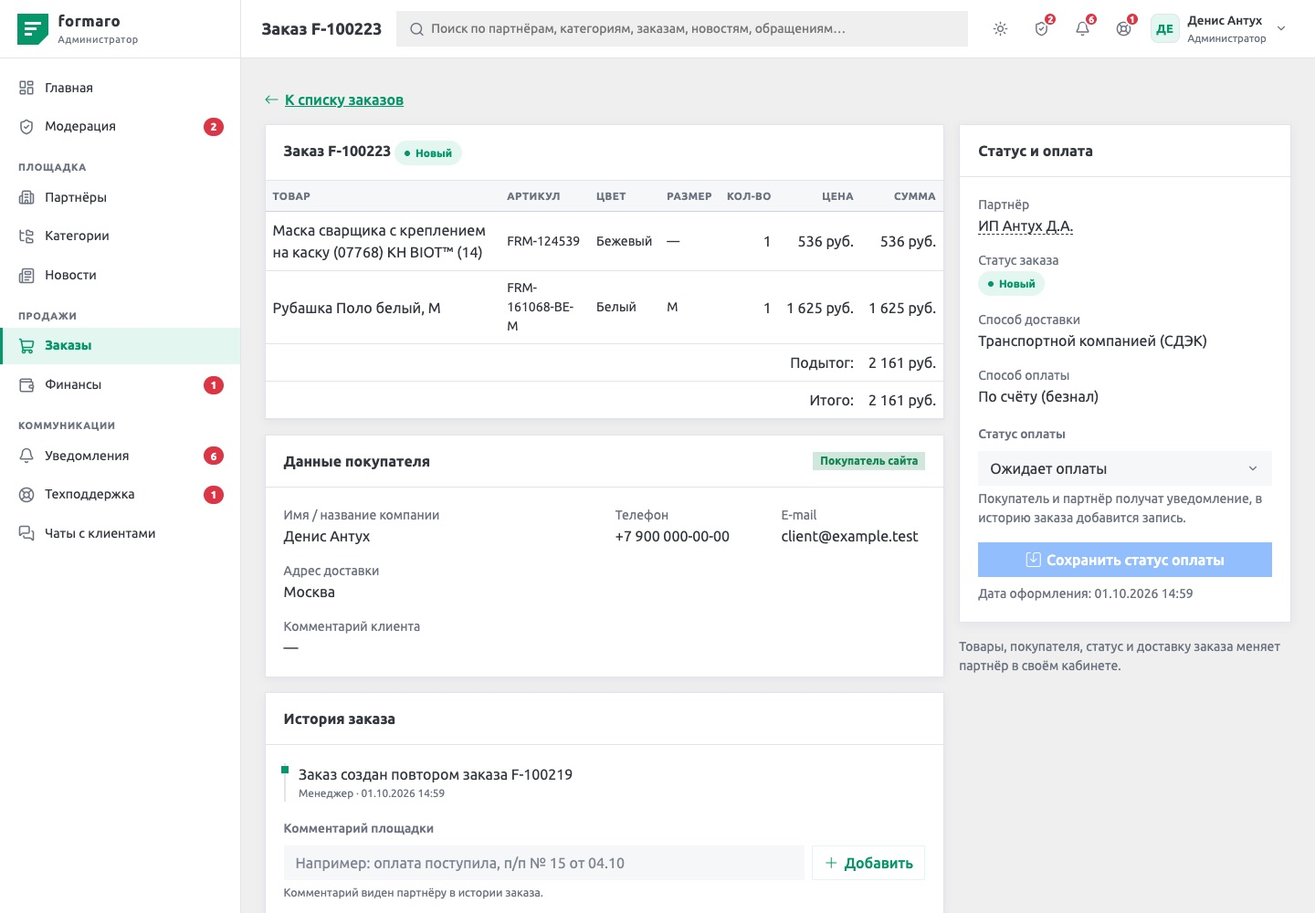
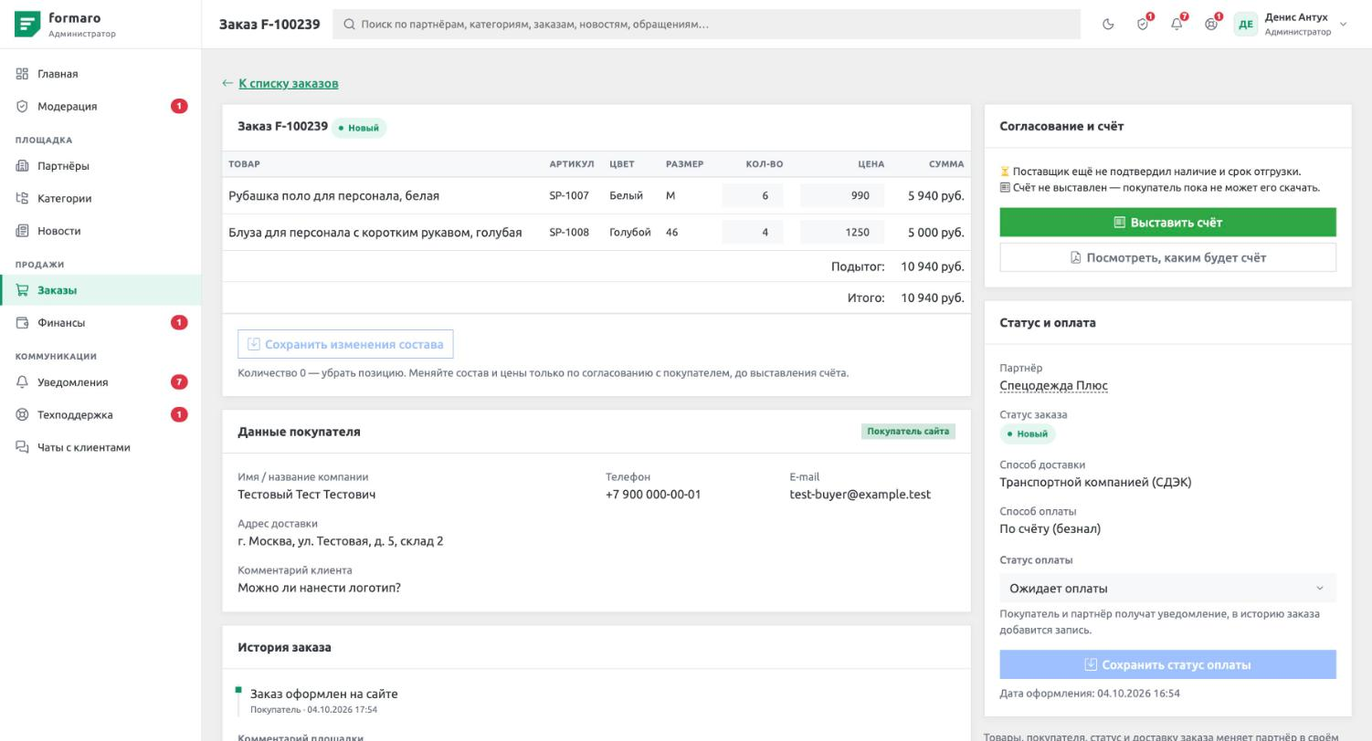
Гайд: согласование заказа и выставление счёта площадкой
Главы обновлены под этап 1 ТЗ «Финансы»:
- «Заказы покупателя»: счёт появляется после согласования, действует
  3 рабочих дня, затем аннулируется; доставка оплачивается транспортной
  компании.
- «Заказы в кабинете партнёра»: карточка «Согласование и счёт» —
  подтверждение наличия и срока, блокировка заказа при выставленном
  счёте.
- «Кабинет администратора: заказы, финансы, общение»: колонка и фильтр
  «Счёт», порядок согласования, правка состава, выставление и
  аннулирование счёта, реквизиты в счёте. Новый скриншот a-order.jpg.
- «Задачи владельца площадки»: выставление счетов, уведомление об оплате
  приходит и площадке.

Миграция Version20261007110001 обновляет тексты этих глав в базе.

diff --git a/local/php_interface/migrations/data/guide/174-admin-operations.html b/local/php_interface/migrations/data/guide/174-admin-operations.html
@@ -1,10 +1,20 @@
 <p class="lead">Продажи и общение в кабинете администратора: заказы всех партнёров и подтверждение оплаты, заявки на вывод средств, техподдержка партнёров, просмотр чатов покупателей с продавцами, уведомления.</p>
 
 <h2>Заказы</h2>
-<p>Заказы всех партнёров. Фильтры: поиск по номеру, клиенту, телефону; партнёр; статус заказа; статус оплаты. Внизу — сумма найденных заказов без отменённых. Чтобы найти заказы, по которым нужно проверить поступление денег, выберите «Оплата → Ожидает оплаты».</p>
+<p>Заказы всех партнёров. Фильтры: поиск по номеру, клиенту, телефону; партнёр; статус заказа; счёт; статус оплаты. Колонка «Счёт»: «Ждём поставщика» (наличие не подтверждено), «Выставить» (поставщик подтвердил — можно выставлять), «до …» (счёт действует), «Аннулирован». Внизу — сумма найденных заказов без отменённых. Чтобы найти заказы, по которым нужно проверить поступление денег, выберите «Оплата → Ожидает оплаты».</p>
 <figure class="guide-shot"><a href="/guide/img/a-orders.jpg" data-fancybox="guide" data-caption="Заказы всех партнёров"><img src="/guide/img/a-orders.jpg" alt="Заказы всех партнёров" loading="lazy"></a><figcaption>Заказы всех партнёров</figcaption></figure>
 
-<h3>Страница заказа и отметка оплаты</h3>
+<h3>Согласование и счёт</h3>
+<p>Покупатель получает счёт только после того, как его выставит площадка. Порядок:</p>
+<ol>
+<li>Поставщик подтверждает наличие и срок отгрузки в своём кабинете — приходит уведомление «Поставщик подтвердил заказ …», в карточке «Согласование и счёт» видно срок.</li>
+<li>Если товара нет или цена другая, менеджер сначала согласует изменения с покупателем, затем меняет количество и цены прямо в таблице товаров (количество 0 — убрать позицию) и нажимает «Сохранить изменения состава». Поставщик получает уведомление.</li>
+<li>«Выставить счёт» — счёт действителен 3 рабочих дня (выходные не считаются). Покупатель получает уведомление и письмо, поставщик — уведомление. Пока счёт действует, состав заказа не меняется. «Посмотреть, каким будет счёт» / «Открыть счёт (PDF)» — проверить счёт до и после выставления.</li>
+<li>Не оплаченный за 3 рабочих дня счёт аннулируется автоматически (проверка раз в час): покупатель получает уведомление и письмо «В связи с неоплатой счёт № … не действителен», вам — уведомление. Если заказ ещё нужен — «Выставить счёт заново».</li>
+</ol>
+<p>В счёте — реквизиты площадки из настроек модуля (Настройки → Настройки модулей → «Кабинет партнёра Formaro» → «Реквизиты площадки») и две оговорки: срок действия счёта и то, что доставку заказчик оплачивает транспортной компании при получении.</p>
+
+<h3>Отметка оплаты</h3>
 <p>Товары, данные покупателя, статус заказа и доставку ведёт партнёр — здесь они только для просмотра. Площадка отвечает за оплату:</p>
 <ol>
 <li>Проверьте поступление денег по счёту.</li>
@@ -12,7 +22,7 @@
 <li>В историю заказа добавится запись («Оплата подтверждена площадкой»), покупатель и партнёр получат уведомления. Партнёру — «Заказ оплачен, можно собирать и отправлять».</li>
 </ol>
 <p>В историю можно добавить «Комментарий площадки», например номер платёжного поручения. Партнёр его тоже видит.</p>
-<figure class="guide-shot"><a href="/guide/img/a-order.jpg" data-fancybox="guide" data-caption="Страница заказа: статус оплаты меняет площадка"><img src="/guide/img/a-order.jpg" alt="Страница заказа: статус оплаты меняет площадка" loading="lazy"></a><figcaption>Страница заказа: статус оплаты меняет площадка</figcaption></figure>
+<figure class="guide-shot"><a href="/guide/img/a-order.jpg" data-fancybox="guide" data-caption="Страница заказа: согласование, счёт и оплата"><img src="/guide/img/a-order.jpg" alt="Страница заказа: согласование, счёт и оплата" loading="lazy"></a><figcaption>Страница заказа: согласование, счёт и оплата</figcaption></figure>
 
 <h2>Финансы</h2>
 <p>Сверху — сколько заявок ждут выплаты и на какую сумму, сколько доступно партнёрам к выводу и сколько уже выплачено. Фильтр по партнёру — для всех вкладок, фильтр вкладки появляется рядом, когда он нужен.</p>

diff --git a/local/php_interface/migrations/data/guide/080-buyer-orders.html b/local/php_interface/migrations/data/guide/080-buyer-orders.html
@@ -6,7 +6,7 @@
 <li><b>Номер и статус</b>: Новый → В обработке → Подтверждён → Отправлен → Выполнен; или Отменён.</li>
 <li><b>Продавец</b> — ссылка на страницу магазина.</li>
 <li><b>Доставка</b> — транспортная компания и адрес.</li>
-<li><b>Оплата</b> — способ, статус оплаты, ссылки «Скачать счёт» и «Сообщить об оплате».</li>
+<li><b>Оплата</b> — способ, статус оплаты, ссылки «Скачать счёт» (со сроком действия) и «Сообщить об оплате» — когда площадка выставила счёт.</li>
 <li><b>Сумма</b> — с учётом промокода.</li>
 <li><b>Чат с продавцом</b> — переписка именно по этому заказу.</li>
 </ul>
@@ -18,10 +18,13 @@
 
 <h2>Оплата</h2>
 <ol>
-<li>«Скачать счёт» — PDF-счёт на оплату. Счёт выставляет площадка.</li>
+<li>Сразу после заказа счёта нет: в колонке «Оплата» написано «Счёт будет выставлен после согласования заказа с поставщиком».</li>
+<li>Площадка согласует наличие и срок отгрузки с поставщиком и выставляет счёт. Покупатель получает уведомление и письмо.</li>
+<li>«Скачать счёт» — PDF-счёт на оплату от площадки. Он действителен 3 рабочих дня (срок указан рядом со ссылкой и в самом счёте). Доставка в счёт не входит — её покупатель оплачивает транспортной компании при получении.</li>
 <li>Покупатель оплачивает счёт и нажимает «Сообщить об оплате».</li>
 <li>Площадка проверяет поступление и подтверждает оплату — статус оплаты меняется на «Оплачен», покупатель получает уведомление.</li>
 </ol>
+<p>Если счёт не оплачен за 3 рабочих дня, он аннулируется автоматически: покупатель получает уведомление и письмо «В связи с неоплатой счёт № … не действителен», а в заказе — «Счёт аннулирован». Новый счёт выставляет площадка.</p>
 
 <h2>Отмена</h2>
 <p>«Отменить заказ» доступен, только пока заказ в статусе «Новый». Если продавец уже взял заказ в работу, отменить его можно только через продавца (например, в чате). Об отмене получают уведомления и покупатель, и продавец.</p>

diff --git a/local/php_interface/migrations/data/guide/180-owner-tasks.html b/local/php_interface/migrations/data/guide/180-owner-tasks.html
@@ -5,7 +5,8 @@
 <tr><th>Новый партнёр</th><td>После регистрации магазин скрыт с витрины. Партнёр появляется в «Модерации», приходит уведомление. Проверьте данные и документы в карточке партнёра, нажмите «Одобрить» и включите «Показывать на сайте».</td></tr>
 <tr><th>Изменения профиля партнёра</th><td>Партнёр отправил данные на проверку — карточка партнёра показывает, что изменилось. «Одобрить» — данные сразу на витрине; «Отклонить» — с причиной.</td></tr>
 <tr><th>Категории партнёров</th><td>Новые и исправленные категории партнёров — в «Модерации». «Допустить» или «Отклонить» с причиной.</td></tr>
-<tr><th>Оплата заказов</th><td>Покупатель оплатил счёт и сообщил об оплате — уведомление пришло продавцу. Проверьте поступление денег и на странице заказа поставьте статус оплаты «Оплачен». Удобно искать через фильтр «Оплата → Ожидает оплаты».</td></tr>
+<tr><th>Счета на оплату</th><td>Поставщик подтвердил наличие — приходит уведомление. Согласуйте изменения с покупателем, если они есть, и на странице заказа нажмите «Выставить счёт». Заказы, по которым пора выставлять счёт, — фильтр «Счёт» в списке заказов.</td></tr>
+<tr><th>Оплата заказов</th><td>Покупатель оплатил счёт и сообщил об оплате — уведомление приходит вам и продавцу. Проверьте поступление денег и на странице заказа поставьте статус оплаты «Оплачен». Удобно искать через фильтр «Оплата → Ожидает оплаты».</td></tr>
 <tr><th>Вывод средств</th><td>Заявки партнёров — в «Финансах». Переведите деньги по реквизитам из карточки партнёра и нажмите «Выплачено» или отклоните заявку с причиной.</td></tr>
 <tr><th>Финансы партнёров</th><td>Поступления за заказы и комиссию пока вносят в админке Битрикса (справочник «Финансовые операции (кабинет)»).</td></tr>
 <tr><th>Техподдержка</th><td>Отвечайте на обращения партнёров в «Техподдержке» — сверху те, что ждут ответа.</td></tr>

diff --git a/local/php_interface/migrations/data/guide/130-cabinet-orders.html b/local/php_interface/migrations/data/guide/130-cabinet-orders.html
@@ -7,6 +7,7 @@
 <li><b>Товары</b> — количество, удаление, добавление товара поиском по названию или артикулу.</li>
 <li><b>Скидка или купон на заказ</b> — выбор скидки или ввод промокода.</li>
 <li><b>Данные покупателя</b>. Бейдж «Покупатель сайта» означает, что заказ привязан к аккаунту покупателя и тот видит его в своём кабинете.</li>
+<li><b>Согласование и счёт</b> — продавец указывает срок отгрузки и нажимает «Подтвердить наличие». Новый заказ переходит в «В обработке», площадка получает уведомление и выставляет покупателю счёт. Здесь же видно, выставлен ли счёт, до какого числа он действует, аннулирован ли он и оплачен ли заказ. Пока счёт действует, состав, цены и данные заказа менять нельзя — только статус и историю.</li>
 <li><b>Статус и оплата</b> — статус заказа, доставка, способ оплаты. Статус оплаты меняет только площадка: оплату по счёту подтверждает маркетплейс. Когда площадка отмечает заказ оплаченным (или оформляет возврат), продавец получает уведомление, а в истории заказа появляется запись.</li>
 <li><b>История заказа</b> — все события, комментарии менеджера и комментарии площадки.</li>
 </ul>

diff --git a/local/php_interface/migrations/Version20261007110001.php b/local/php_interface/migrations/Version20261007110001.php
@@ -1,0 +1,38 @@
+<?php
+
+namespace Sprint\Migration;
+
+use Sprint\Migration\Exceptions\HelperException;
+
+class Version20261007110001 extends Version
+{
+    protected $description = 'Гайд по сайту: согласование заказа и выставление счёта площадкой (ТЗ «Финансы», этап 1)';
+
+    private const UPDATED = ['buyer-orders', 'cabinet-orders', 'admin-operations', 'owner-tasks'];
+
+    /** Тексты глав UPDATED — из data/guide (как Version20261004120001). @throws HelperException */
+    public function up()
+    {
+        $helper = $this->getHelperManager();
+        $iblockId = $helper->Iblock()->getIblockIdIfExists('content_pages', 'content');
+        $dir = __DIR__ . '/data/guide/';
+        $updated = 0;
+        foreach (json_decode((string)file_get_contents($dir . 'chapters.json'), true) as $chapter) {
+            if (!in_array($chapter['code'], self::UPDATED, true)) {
+                continue;
+            }
+            $id = (int)$helper->Iblock()->getElementId($iblockId, $chapter['code']);
+            if ($id) {
+                (new \CIBlockElement())->Update($id, ['DETAIL_TEXT' => (string)file_get_contents($dir . $chapter['file']), 'DETAIL_TEXT_TYPE' => 'html']);
+                $updated++;
+            }
+        }
+        \CIBlock::clearIblockTagCache($iblockId);
+        $this->outSuccess('Гайд: обновлено глав %d', $updated);
+    }
+
+    public function down()
+    {
+        $this->outInfo('Откат текстов глав не выполняется');
+    }
+}
